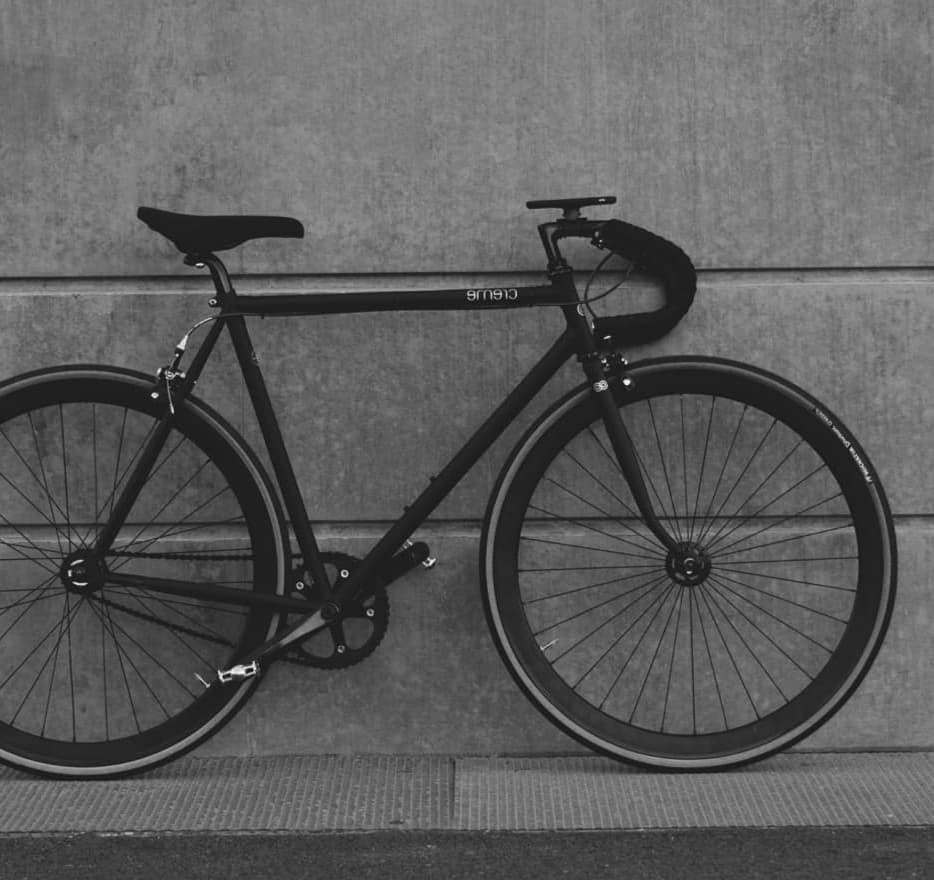
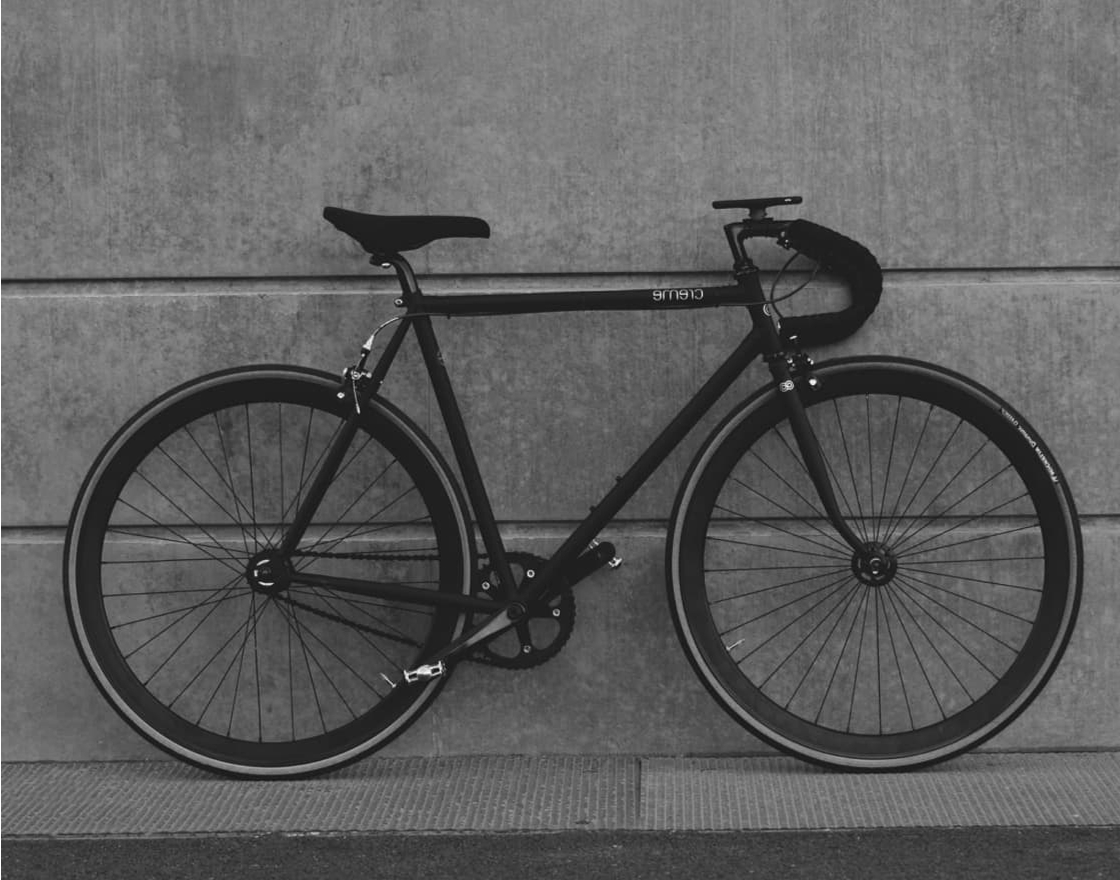
feat: cria a primeira secao da pagina nimbus

diff --git a/bicicletas/nimbus.html b/bicicletas/nimbus.html
@@ -25,9 +25,9 @@
 
       <nav aria-label="Principal">
         <ul class="header__menu font-1-m cor-0">
-          <li><a href="./bicicletas.html">Bicicletas</a></li>
-          <li><a href="./seguro.html">Seguro</a></li>
-          <li><a href="./contato.html">Contato</a></li>
+          <li><a href="../bicicletas.html">Bicicletas</a></li>
+          <li><a href="../seguro.html">Seguro</a></li>
+          <li><a href="../contato.html">Contato</a></li>
         </ul>
 
       </nav>
@@ -65,6 +65,63 @@
         <div class="nimbus__infos">
 
           <p class="font-2-l cor-4">A Nimbus Stark é a melhor Bikcraft já criada pela nossa equipe. Ela vem equipada com os melhores acessórios, o que garante maior velocidade.</p>
+
+          <div class="nimbus__comprar">
+
+            <button class="btn">comprar agora</button>
+
+            <div class="cor-6">
+              <span>
+                <img src="../img/icones/entrega.svg" alt="">
+                Entrega em 5 dias
+              </span>
+
+              <span>
+                <img src="../img/icones/estoque.svg" alt="">
+                18 em estoque
+              </span>
+            </div>
+
+          </div>
+
+
+          <section class="nimbus__vantagens" aria-labelledby="vantagens-lista">
+            <h2 id="vantagens-lista" class="font-1-xs uppercase cor-0">informações</h2>
+
+            <ul class="vantagens__lista font-2-xs cor-6">
+              <li>
+                <img src="../img/icones/eletrica.svg" alt="">
+
+                <h3 class="font-1-m cor-4">Motor Elétrico</h3>
+
+                <p>Permite você viajar distâncias inimagináveis com a sua bike.</p>
+              </li>
+
+              <li>
+                <img src="../img/icones/velocidade.svg" alt="">
+
+                <h3 class="font-1-m cor-4">40 km/h</h3>
+
+                <p>A mais rápida bicicleta elétrica disponível hoje no mercado.</p>
+              </li>
+
+              <li>
+                <img src="../img/icones/rastreador.svg" alt="">
+
+                <h3 class="font-1-m cor-4">Rastreador</h3>
+
+                <p>Rastreador e sistema antifurto para garantir o seu sossego.</p>
+              </li>
+
+              <li>
+                <img src="../img/icones/carbono.svg" alt="">
+
+                <h3 class="font-1-m cor-4">Fibra de Carbono</h3>
+
+                <p>Maior proteção possível para a sua Bikcraft com fibra de carbono.</p>
+              </li>
+            </ul>
+          </section>
 
         </div>
 

diff --git a/css/nimbus/nimbus.css b/css/nimbus/nimbus.css
@@ -10,23 +10,48 @@
   gap: 1.25rem;
   height: 4auto;
 }
-object-position: center;
 
 .nimbus__fotos div {
-  max-height: auto;
   border-radius: 5px;
-  object-position: center;
-  overflow: hidden;
-}
-
-.nimbus__fotos div img {
-  width: 100%;
-  height: auto;
-  object-fit: cover;
-  object-position: center;
-  display: block;
 }
 
 .nimbus__fotos div:first-child {
   grid-column: 1/-1;
+}
+
+.nimbus__infos {
+  display: grid;
+  gap: 2rem;
+}
+
+.nimbus__comprar {
+  display: grid;
+  grid-template-columns: max-content max-content;
+  place-items: start;
+  gap: 0.75rem;
+}
+
+.nimbus__comprar .btn {
+  place-self: initial;
+}
+
+.nimbus__comprar > div {
+  display: grid;
+  gap: 0.5rem;
+}
+
+.nimbus__comprar > div > span {
+  display: flex;
+  gap: 0.5rem;
+  padding: 0.25rem 0.5rem;
+  background-color: var(--c12);
+  border-radius: 5px;
+  place-self: start;
+}
+
+.vantagens__lista {
+  display: grid;
+  grid-template-columns: 1fr 1fr;
+  background-color: var(--c12);
+  padding: 2rem;
 }

diff --git a/bicicletas.html b/bicicletas.html
@@ -120,7 +120,7 @@
                   <li><img src="./img/icones/rastreador.svg" alt="">Rastreador</li>
                 </ul>
 
-                <a class="btn" href="./bicicleta-interna.html">Mais sobre</a>
+                <a class="btn" href="./bicicletas/nimbus.html">Mais sobre</a>
 
               </div>
             </div>
